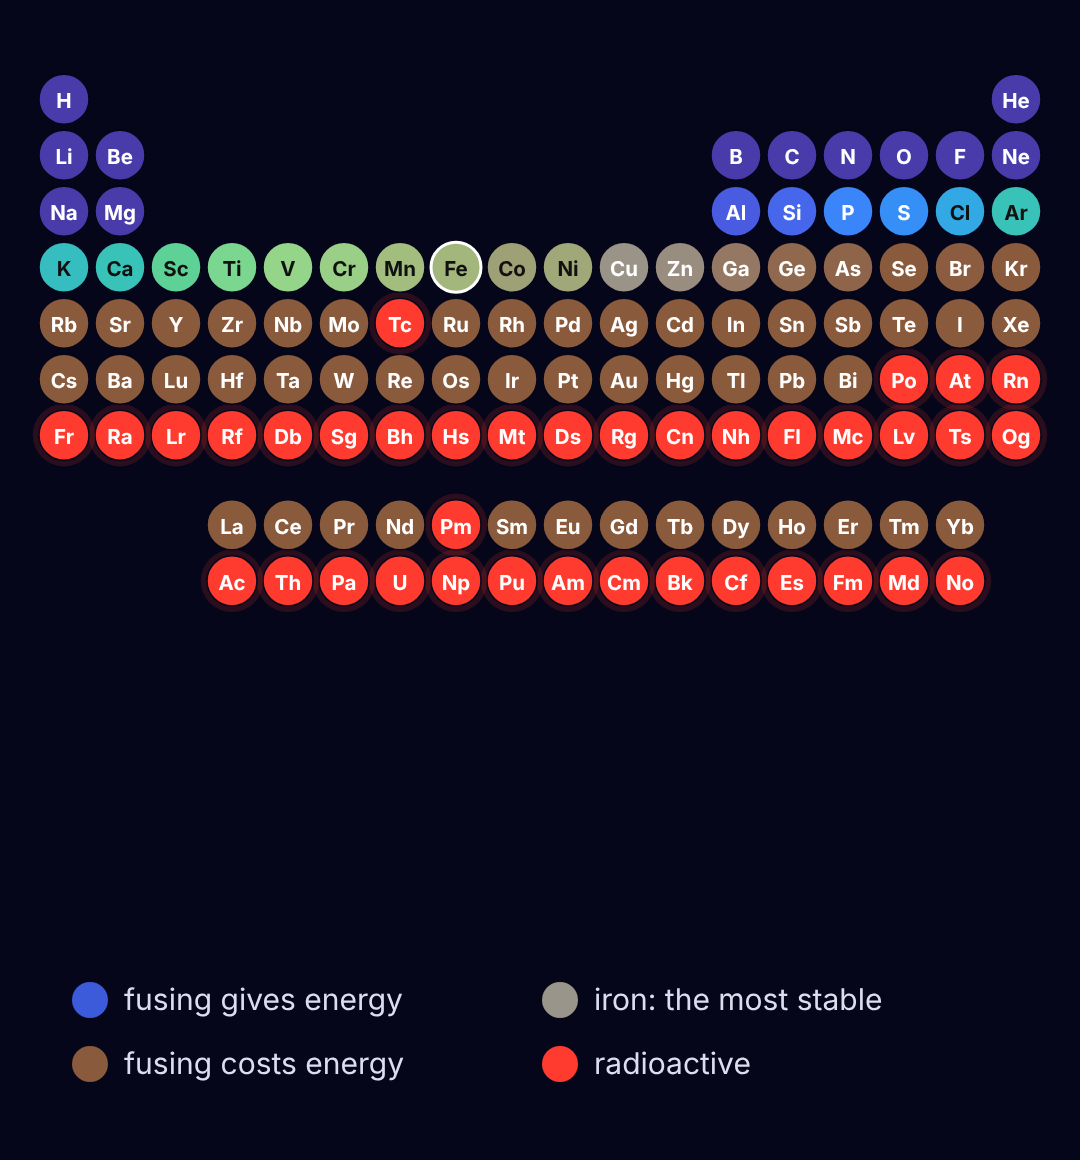
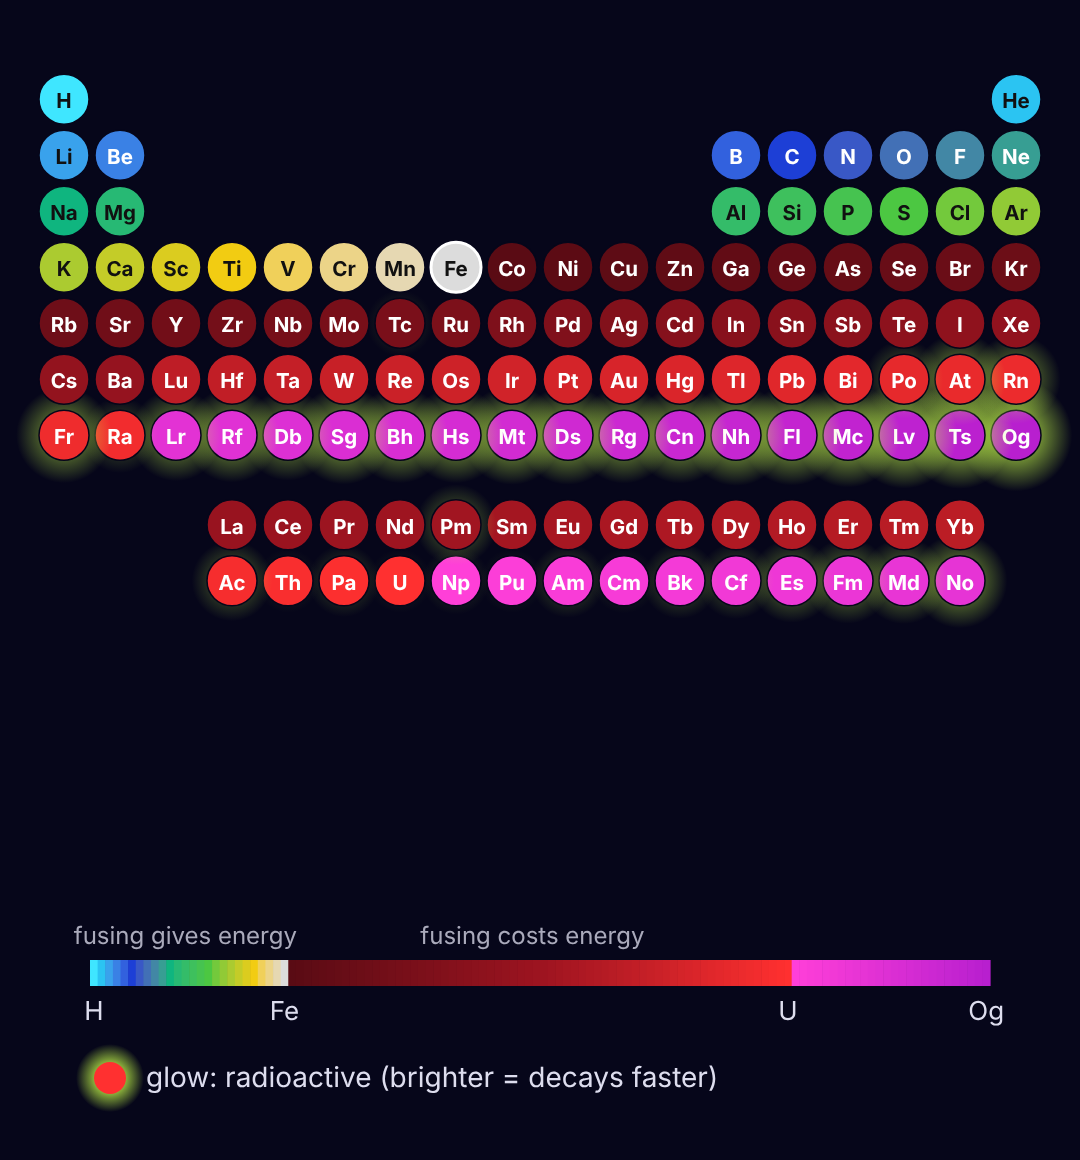
Video 6 table colours: the author's scheme by atomic number (cyan → blue → emerald → green → yellow → grey iron → dark red → red → magenta), glow for radioactive scaled by decay rate; beat wording updated
Claude-Session: https://claude.ai/code/session_01Qy2VzkJuHRZ4RxpNPawM6J

Changed region(s): [[0.0, 0.0621, 1.0, 0.5586], [0.0611, 0.8069, 0.9167, 0.9621], [0.9167, 0.869, 0.9472, 0.9]]

diff --git a/video/scripts/recording-scripts.md b/video/scripts/recording-scripts.md
@@ -154,10 +154,13 @@ view.
   shorts (the repo ignores .mp4 files, so run the script to get the clip).
 
 **Video 6: the colours beat** (the author, 2026-10-31), straight after the table turns into the
-classroom view. The colours sweep from hydrogen to oganesson into: blue and green (fusing gives
-energy), grey at iron, brown (heavier, stable), and bright red, pulsing, for the radioactive ones
-(no stable isotope: technetium, promethium, polonium on; bismuth-209 stays brown, its half-life of
-~2×10¹⁹ years gives no heat to speak of). A small key appears.
+classroom view. The colours sweep from hydrogen to oganesson into the author's scheme (2026-11-01):
+by atomic number, cyan for the lightest gases, deep blue, emerald, green, yellow, and light grey at
+iron; then deep dark red, bright red by uranium, magenta for the transuranium elements. The
+radioactive ones (no stable isotope: technetium, promethium, polonium on; bismuth-209's half-life of
+~2×10¹⁹ years gives no heat to speak of) get a glow, brighter the faster they decay: faint for
+thorium and uranium, blazing for oganesson. A small key appears (the colour strip H → Fe → U → Og,
+and the glow). Still: `video/plans/binding-energy/table-colours.png`.
 - The author's draft: *"Colors here represent something important. Blue and green are elements that
   release energy under fusion and require energy to be separated. Brown and red are the opposite,
   elements that will require energy to be fused. The bright red ones are the radioactive elements,
@@ -198,9 +201,9 @@ energy), grey at iron, brown (heavier, stable), and bright red, pulsing, for the
     before the Earth existed."* (The Earth's uranium is older than the Sun.)
 - **The beat to record** (the author's words with the fixes, and the iron passage the author chose,
   2026-10-31): *"These colours mean something important. Blue and green are elements that give off
-  energy when they fuse, and need energy to be split. Brown and red are the opposite. The bright red
-  ones are radioactive: they break down by themselves, giving off heat and radiation. And here in
-  the grey middle, the most stable of all: iron. Elements up to iron are forged in the cores of
+  energy when they fuse, and need energy to be split. The reds are the opposite. The glowing
+  ones are radioactive: they break down by themselves, giving off heat and radiation, and the
+  brighter the glow, the faster they go. And here, in light grey, the most stable of all: iron. Elements up to iron are forged in the cores of
   stars: once the hydrogen runs out, the biggest stars burn helium, then carbon, and so on, up to
   iron. Past iron, fusion stops paying: it costs energy instead. So when a big star's core turns to
   iron, the fire goes out and the core collapses. And as it falls, the iron is torn apart again,
@@ -210,7 +213,10 @@ energy), grey at iron, brown (heavier, stable), and bright red, pulsing, for the
   on energy that was locked into uranium when two dead stars collided, billions of years before the
   Earth existed."*
   - On screen while it plays: the recolour sweep on "These colours…", the radioactive ones pulse on
-    "radioactive", iron's ring on "iron". The collapse and the neutron-star collision could be short
+    "radioactive", iron's ring on "iron".
+    (Colours changed 2026-11-01: blue and green up to iron, reds after it, magenta past uranium, a glow
+    for radioactive. The line above was updated to match: "The reds are the opposite. The glowing
+    ones are radioactive…") The collapse and the neutron-star collision could be short
     cutaways (a supernova remnant; the GW170817 kilonova) or a dive on the chart to the neutron
     stars, per `video/plans/visual-rules.md` (dives before photo cutaways).
 - **Second draft of the iron part** (the author, 2026-10-31): *"Past iron, fusion energy generation
